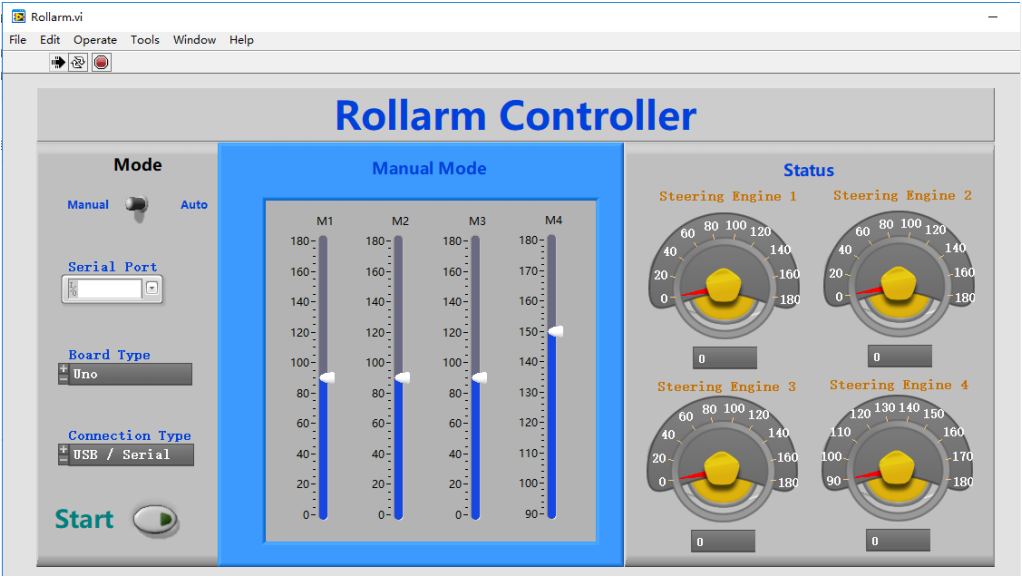
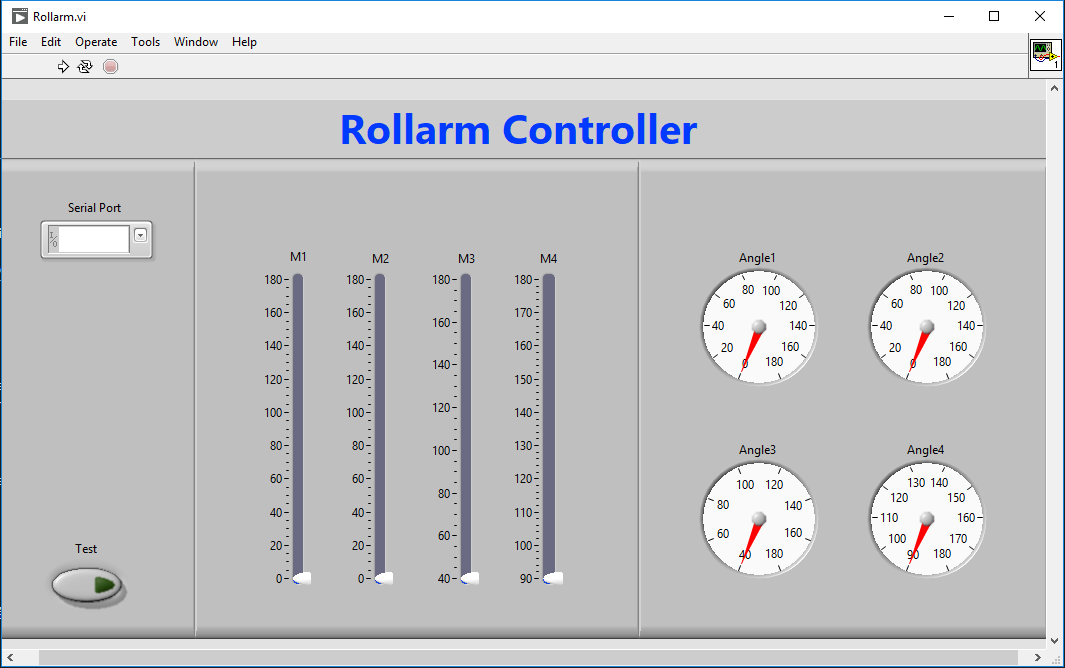
chagne labview

diff --git a/docs/source/_templates/layout.html b/docs/source/_templates/layout.html
@@ -1,0 +1,13 @@
+{%- extends "!layout.html" %}
+
+{% block extrabody %}
+<nav id="nav-bar">
+  <ul class="nav-bar-items" id="nav-bar-items">
+    <li class="nav-bar-logo">
+      <a href="https://sunfounder.com">
+        <img class="logo-img" src="https://ezblock.cc/readDocFile/sunfounder_LOGO_160x@2x.png"/>
+      </a>
+    </li>
+  </ul>
+</nav>
+{% endblock %}

diff --git a/docs/source/conf.py b/docs/source/conf.py
@@ -52,16 +52,16 @@ html_theme_path = [sphinx_rtd_theme.get_html_theme_path()]
 # SunFounder logo
 
 html_js_files = [
-    'https://ezblock.cc/readDocFile/topHead.js',
+    'https://ezblock.cc/readDocFile/custom.js',
 ]
 html_css_files = [
-    'https://ezblock.cc/readDocFile/topHead.css',
+    'https://ezblock.cc/readDocFile/custom.css',
 ]
 
 #### RTD+
 
 # html_js_files = [
-#     'https://ezblock.cc/readDocFile/topHead.js',
+#     'https://ezblock.cc/readDocFile/custom.js',
 #     'https://ezblock.cc/readDocFile/readTheDoc/src/js/ace.js',
 #     'https://ezblock.cc/readDocFile/readTheDoc/src/js/ext-language_tools.js',
 #     'https://ezblock.cc/readDocFile/readTheDoc/src/js/theme-chrome.js',
@@ -74,7 +74,7 @@ html_css_files = [
 
 # ]
 # html_css_files = [
-#     'https://ezblock.cc/readDocFile/topHead.css',
+#     'https://ezblock.cc/readDocFile/custom.css',
 #     'https://ezblock.cc/readDocFile/readTheDoc/src/css/index.css',
 #     'https://ezblock.cc/readDocFile/readTheDoc/src/css/xterm.css',
 # ]

diff --git a/docs/source/pc_control.rst b/docs/source/pc_control.rst
@@ -1,19 +1,49 @@
 PC Control
 ========================
 
-Install Labview Software
---------------------------------
+Rollarm can be controlled from your computer using a desktop application generated by `LabVIEW <https://www.ni.com/en-us/shop/labview.html>`_.
 
-For this kit, we use the Labview software for control on PC, download the Labview package in the link below:
+Using this app, you can control Rollarm to different postures and see the corresponding angle of each servo.
 
-* :download:`Labview <https://s3.amazonaws.com/sunfounder/Arduino/Labview.zip>`
 
-Once downloaded, unzip it and double-click the ``setup.exe`` file to install it.
+**1. Add the Libraries**
+
+Here we need to add LINX related libraries to ``Arduino/libraries``. 
+LabVIEW LINX is an add-on to LabVIEW that adds the tools for development with Raspberry Pi, BeagleBoard and Arduino.
+
+
+Go to the ``DIY_Control_Robot_Arm_kit_for_Arduino-Rollarm\Libraries`` path and copy all the folders.
+
+    .. image:: img/linx5.png
+
+Paste all the folders you just copied into the ``C:\Users\xxx\Documents\Arduino\libraries`` path.
+
+    .. image:: img/linx6.png
+
+The Arduino IDE uses this path by default to store user-added libraries. If yours isn't this path, go to **File** > **Preferences** to locate or change the location of your ``libraries/`` folder.
+
+    .. image:: img/linx7.png
+
+**2. Run the Code**
+
+Open the ``.ino`` file in the ``DIY_Control_Robot_Arm_kit_for_Arduino-Rollarm\Arduino Code\Arduino_Uno_Serial`` path.
+
+After selecting the correct board and port, upload it to the Arduino board.
+
+    .. image:: img/linx8.png
+
+**3. Install the APP**
+
+Download the installation package.
+
+* :download:`Rollarm-Labview <https://1drv.ms/u/s!AqKAi6T8L7jzkHieqfSKFHLtkg4d?e=8f755L>`
+
+Unzip the file after downloading and double-click the ``install.exe`` file in the folder ``Volume`` to install it.
 
 .. image:: img/media63.png
 
-After the installation is done, search for **Rollarm** at the bottom left of your computer to open this software. Or, enter the installation directory we used just now, and double click ``Rollarm.exe`` to open it. 
-The defaulted installation directory is: ``C:\\Program Files (x86)\\Rollarm``.
+When the installation of this software is complete, locate **Rollarm** in the left corner of your computer to launch it. Or, go to the installation directory we just used and double-click ``Rollarm.exe`` to open it.
+The default installation directory is: ``C:\\Program Files (x86)\Rollarm``.
 
 .. image:: img/media64.png
 
@@ -21,81 +51,34 @@ The following interface will show up.
 
 .. image:: img/media65.png
 
-Upload the Code
-------------------------
-
-Before using the Rollarm Labview software, upload the control codes into the Rollarm robot, and the steps are as follows.
-
-**Step 1**: In order to avoid the incompatibility, please use Arduino IDE 1.0.5.
-
-* :download:`Arduino IDE 1.0.5 <https://github.com/sunfounder/DIY_Control_Robot_Arm_kit_for_Arduino-Rollarm/raw/master/arduino-1.0.5-r2.zip>`
-
-**Step 2**: After downloading and unzipping, double click the ``arduino.exe`` to open it.
-
-.. image:: img/media69.png
-
-**Step 3**: Click **File** -> **Open**, go to the path where you downloaded the code, and open ``LIFA_Base.ino`` under the path of ``DIY_Control_Robot_Arm_kit_for_Arduino-Rollarm.1\\Arduino Code\LIFA_Base``.
-
-.. image:: img/media166.png
-
-**Step 4:** Choose the proper Board and Port, and upload the code to the SunFounder R3 board. DO NOT unplug the USB cable at the moment.
-
-.. image:: img/media68.png
-
-
-
-Using the Software
----------------------------
-
-Back to the Rollarm Labview software, which includes two modes: **Manual Mode** and **Automatic Mode**.
-
-**Manual Mode**
-
-**Step1:** See the interface of manual control below. After the Labview is installed and run, this mode is enabled by default.
-
-.. image:: img/media70.png
-
-**Step2:** Click the inverted triangle icon for Serial Port, select the port according to you COM port. Here is COM24, which varies for different computers.
-
 .. note::
-    If you can only see COM1, to solve the problem, just replug the USB cable.
 
-.. image:: img/media71.png
+    When you just open or stop the app, the following error message may appear, please click **Continue** to ignore it and continue the next steps.
 
-**Step 3:** Select the **Board Type (Uno)** and **Connection Type(USB/Serial)**.
+    .. image:: img/linux1.png
 
-.. image:: img/media72.png
+**4. Use the APP**
 
-**Step 4:** There are **three** small icons at the top left, click the middle on to run the software.
+Choose COM port, the same one you picked in the Arduino IDE.
 
-.. image:: img/media73.png
+    .. image:: img/linx1.png
 
-**Step5:** Click **Start**, and the button will change from dark to light **green**.
+Run this app.
 
-.. image:: img/media74.png
+    .. image:: img/linx2.png
 
-.. note::
-    Sometimes you can see the mistakes like 5005 or 5002 that are as results of the software recognition failure of Arduino control board. Now, please click OK. Then there is a quick quiver state in Rollarm robot to return to the setting position. After that, you can continue to do your next step.
-	
-.. image:: img/media75.png
+You can test whether the app and Rollarm are communicating properly by clicking the Test button. The LED on pin 13 will light up when you click this button, which means the communication is working.
 
-**Step 6: M1-M4 correspond to Servo1-Servo4**, you can move the slider to control the 4 Servos on the Rollarm.
+    .. image:: img/linx3.png
 
-.. image:: img/media76.png
+Now you can use M1~M4 to control Rollarm's 4 servos.
 
-.. image:: img/media77.png
+* M1: Control the Rollarm to turn left and right, the angle range is 0-180°.
+* M2: Control the forward extension and retraction, the angle range is 0-180°.
+* M3: Control the Rollarm's head up/down, the angle range is 40-180°.
+* M4: Control the Rollarm open/close, the angle range is 90-180°.
 
-**Automatic Mode**
+    .. image:: img/linx4.png
 
-You can also switch to **Auto Mode**. Fill the angle of the Servos into the table under **Auto Mode** one by one. After filling the figures, click the **Start** button, then Rollarm will then perform as you just set.
 
-* **M1-M4**: Servo1-Servo4.
-* **1-9**: 9 groups of rotating angle.
-* **Interval times(ms)**: The interval times between two groups, such as interval times between M4 in row 1 and M1 in row 2.
-* **Interval times(ms) 2**: The interval time between two rotating angles within a group.
-
-.. note::
-    The range of the data for Mode 4 is 90~180. Otherwise, it will be damaged due to stalling.
-
-.. image:: img/media78.png
 

diff --git a/docs/source/index.rst b/docs/source/index.rst
@@ -3,7 +3,9 @@ Rollarm for Arduino
 
 The Rollarm Kit is an interesting and useful learning tool for Arduino and robot hobbyists. With the structural plate and code based on Arduino, it enables users to learn programming from easy to difficult, control the mechanical arm freely and perform various fun operations! 
 
-This fun mechanical arm consists of 4 axes, each controlled by a Servo. Powered by a 9V battery, the control systems is composed of SunFounder Uno board, Servo extension board with remote control. The kit includes all necessary components like structural plate, circuit boards, and connector parts. For your better learning, installation and debugging video tutorials are provided on youtube. Also you can download the user manual which elaborates on the installation procedures and program explanation. With these resources, you can quickly and effortlessly make creative projects with the Rollarm. Now let’s go to get the fun!
+This fun mechanical arm consists of 4 axes, each controlled by a Servo. Powered by a 9V battery, the control systems is composed of SunFounder Uno board, Servo extension board with remote control. The kit includes all necessary components like structural plate, circuit boards, and connector parts.
+
+Now let’s go to get the fun!
 
 .. image:: img/media1.png
 

diff --git a/docs/source/faq.rst b/docs/source/faq.rst
@@ -27,22 +27,3 @@ If you open the subprograms separately, a window will pop up like this:
 If a new folder has been created for the subprogram, please cut the subprogram file to the original directory ``Arduino code\\Rollarm``. Reopen the main program:
 
 .. image:: img/media81.png
-
-
-
-About the Labview Software Control
--------------------------------------
-
-**Q1:** Why does the Servos shake a little after turning on the power of Rollarm?
-
-**Answer:** There may be a problem with the serial port. For example, the following situation may occur.
-
-.. image:: img/media83.png
-
-Turn off Rollarm, power up again and reconnect the serial port and retry.
-
-**Q1:** When I click **Start**, Rollarm is in a strange position, it is in auto mode. Is there something wrong?
-
-.. image:: img/media84.png
-
-Before clicking **Start**, you need to fill in the rotation angles for each axis in the different steps, and the interval between steps. If you don't know the exact angle, you can go to manual mode, record the angle value for each step, and then turn back to fill it in.When all the above steps are completed, you can click **Start** to have Rollarm perform these steps.

diff --git a/docs/source/control_the_rollarm.rst b/docs/source/control_the_rollarm.rst
@@ -3,8 +3,9 @@ Control the Rollarm
 
 There are two ways to control the Rollarm: manual control (by handle), or PC control (by Labview). The detailed operations for two ways are as follows.
 
-.. toctree::
-   :maxdepth: 2
 
-   manual_control
-   pc_control
+.. toctree::
+    :maxdepth: 2
+
+    manual_control
+    pc_control
